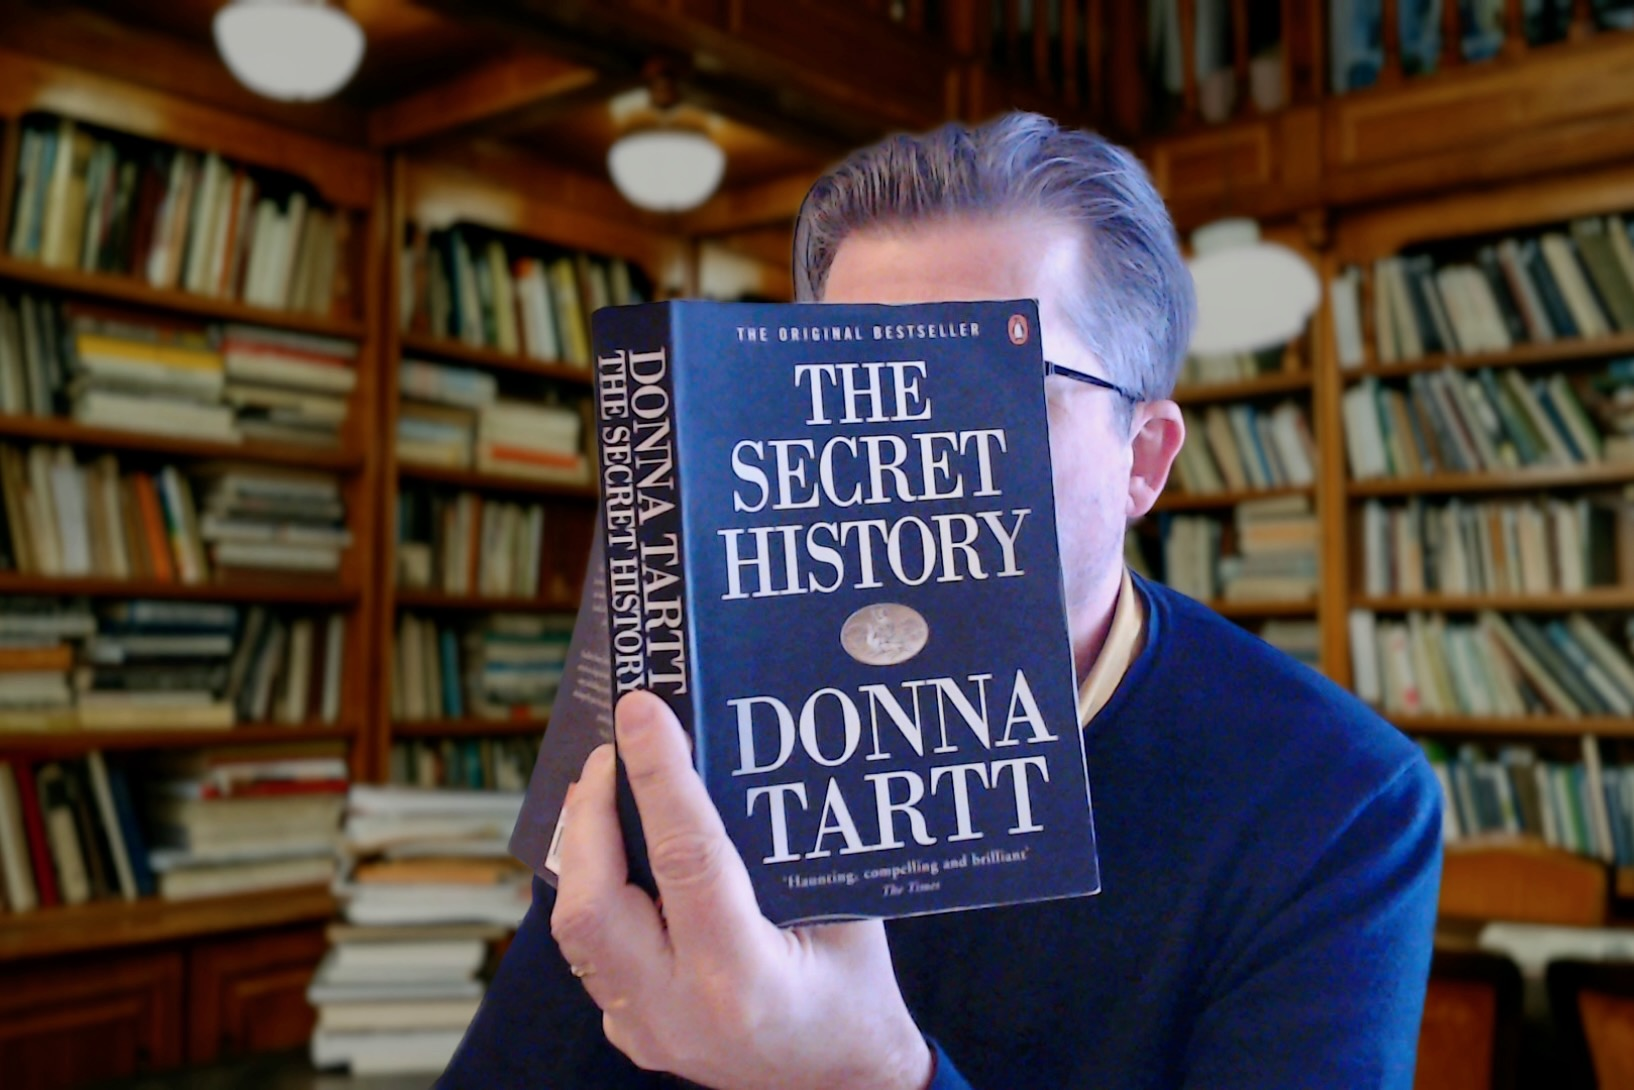
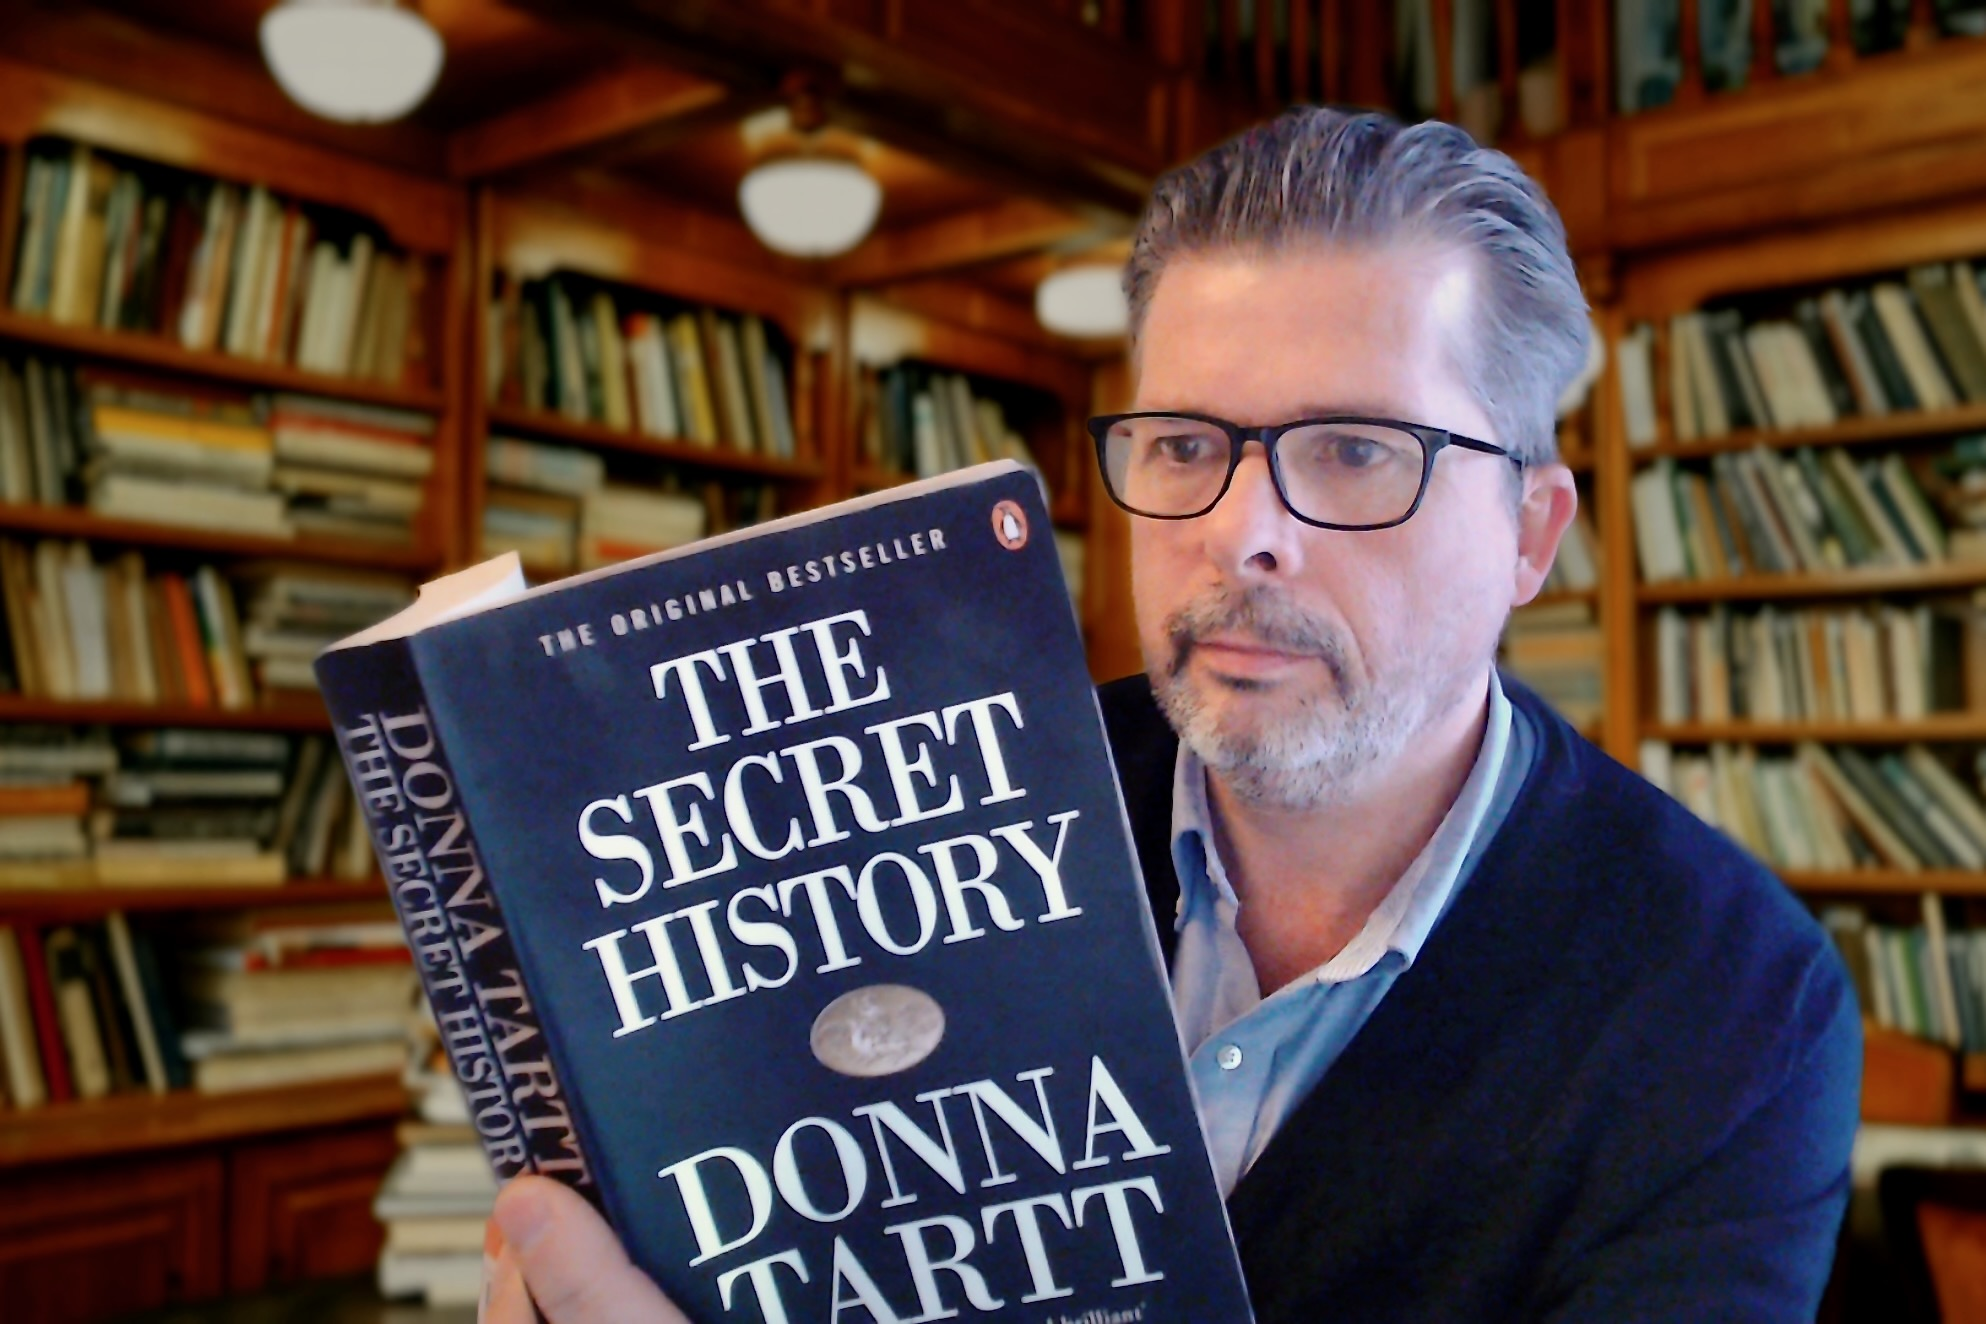
Update images for DBL pages, to see my face (!)

diff --git a/pages/library/lecarre-tinker-tailor.md b/pages/library/lecarre-tinker-tailor.md
@@ -8,7 +8,7 @@ order: 0
 page:
   class: "page--with-hero"
 image:
-  path: /static/images/oldbooks/lecarre-tinker-tailor-library.jpeg
+  path: /static/images/oldbooks/lecarre-tinker-tailor.jpeg
   alt: 'Cover of Tinker, Tailor, Soldier, Spy, by John le Carré'
   class:
     - image-obj-cover
